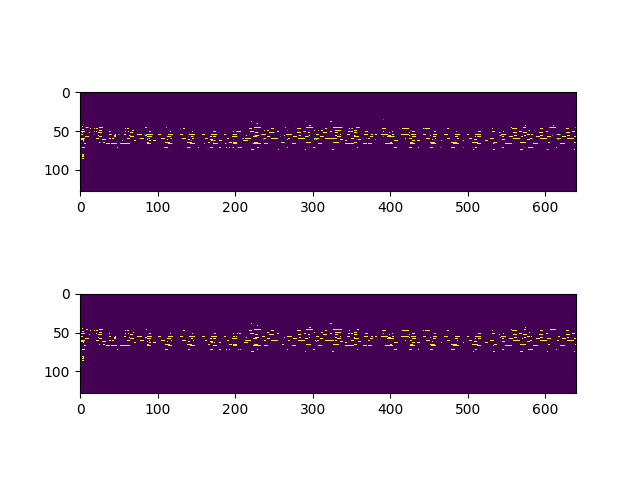
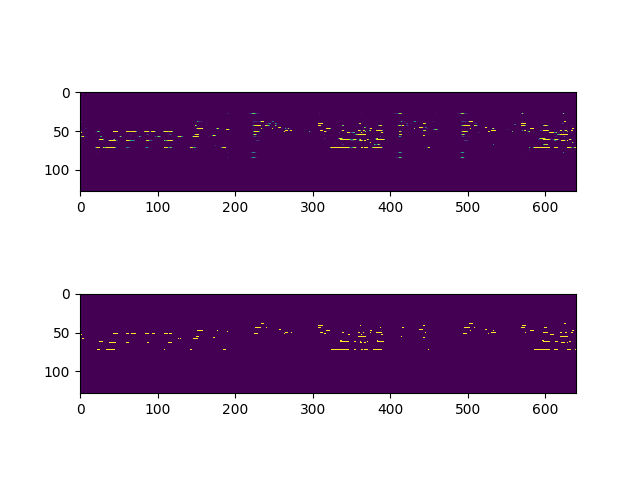
best.mid == cont SeqAE

diff --git a/examples/DCRNN_cond.py b/examples/DCRNN_cond.py
@@ -31,13 +31,13 @@ if __name__ == '__main__':
         repeats=[1, 1],  # [8, 2, 1],
         bidirection=[False, False],
         timesteps=_timesteps,
-        code_dim=100,
+        code_dim=50,
         vocab_size=128,
         basic_cell=rnn.LSTMCell,
         onehot=False,
         timestep_pad=False,
         code_ndim=2,
-        deconv_decision=True,
+        # deconv_decision=True,
         conditional=True,
         cond_dim=12,
         # hparam
@@ -185,11 +185,10 @@ if __name__ == '__main__':
             codeC = np.reshape(np.tile(np.expand_dims(codeC, 1), (1, 64, 1)),
                                (-1, codeC.shape[-1]))
 
-            code = np.concatenate([codeC, codeA,
-                                   codeB, codeC,
-                                   codeA, codeB],
+            code = np.concatenate([codeA, codeB, codeA, codeB, codeA],
                                   axis=0)
-            song = model.generate([code], cond=cond, code_img=True, img=True)[0]
+            song = model.generate([code], cond=cond,
+                                  code_img=True, img=True)[0]
 
         print song[song.nonzero()].mean()
         final = song > 0.9

diff --git a/examples/ContinuousSeqAE.py b/examples/ContinuousSeqAE.py
@@ -47,9 +47,9 @@ if __name__ == '__main__':
     model = ContinuousSeqAE(hparam)
     model.build()
     # coder = ExampleCoder()
-    coder = NoteDurationCoder(normalize_key='C5',
+    coder = NoteDurationCoder(normalize_key='C5',)
                               # single=True,
-                              first_voice=True)
+                              # first_voice=True)
 
     try:
         data = np.load('temp/easy.npz')['data']
